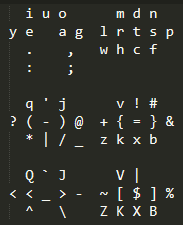
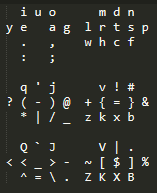
1st version of (lo level) kbd definition file small changes to PLLT1xe

diff --git a/pqLayouts/main.cpp b/pqLayouts/main.cpp
@@ -1,4 +1,4 @@
-// Copyright 2020 Philippe Quesnel  
+// Copyright 2021 Philippe Quesnel  
 //
 // This file is part of pqLayouts.
 //
@@ -197,13 +197,15 @@ namespace
 
         SetPLLT1xeShifts();
 
-        // Return on x
+        // Return on v
         addMapping(charToVk['v'],  false, VK_RETURN, false);
         addMapping(charToVk['v'],  true, VK_RETURN, true);
 
         // add other special keys on main
-        addMapping(charToVk['q'],  false, VK_ESCAPE, false);
-        addMapping(charToVk['q'],  true, VK_ESCAPE, true);
+        addMapping(VK_TAB,  false, VK_ESCAPE, false);
+        addMapping(VK_TAB,  true, VK_ESCAPE, true);
+        addMapping(charToVk['q'],  false, VK_TAB, false);
+        addMapping(charToVk['q'],  true, VK_TAB, true);
         addMapping(charToVk['['],  false, VK_BACK, false);
         addMapping(charToVk['['],  true, VK_DELETE, false);
 
@@ -315,6 +317,115 @@ namespace
          Maybe support for layout definitions in text files ! ;-)
         */
     }
+
+    bool parsek2k(int lineNo, std::string& fromKey, std::string& toKey )
+    {
+        // from key
+        const char* from = fromKey.c_str();
+
+        bool shiftLayer = false;
+        if (*from == '+')
+        {
+            shiftLayer = true;
+            from++;
+        }
+        //pq-todo support key names Esc, Tab etc
+        WORD vkFrom = 0;
+        if (strlen(from) > 1)
+        {
+            std::cerr << "keynames not supported yet, line " << lineNo << std::endl;
+            return false;
+        }
+        else
+        {
+            vkFrom = VkKeyScanA(*from);
+            if (vkFrom == 0xFFFF)
+            {
+                std::cerr << "non valid fromKey, line " << lineNo << std::endl;
+                return false;
+            }
+        }
+
+        // to key
+        const char* to = toKey.c_str();
+
+        bool toKeyNeedsShift = false;
+        if (*to == '+')
+        {
+            toKeyNeedsShift = true;
+            to++;
+        }
+        //pq-todo support key names Esc, Tab etc
+        WORD vkTo = 0;
+        if (strlen(to) > 1)
+        {
+            std::cerr << "keynames not supported yet, line " << lineNo << std::endl;
+            return false;
+        }
+        else
+        {
+            vkTo = VkKeyScanA(*to);
+            if (HasShiftBit(vkTo))
+                toKeyNeedsShift = true;
+
+            if (vkTo == 0xFFFF)
+            {
+                std::cerr << "non valid toKey, line " << lineNo << std::endl;
+                return false;
+            }
+        }
+
+        // add mapping
+        addMapping(vkFrom & 0xFF, shiftLayer, vkTo & 0xFF, toKeyNeedsShift);
+
+        return true;
+    }
+
+    bool readkeyboardfile(const char* filename)
+    {
+        int lineNo = 0;
+        std::string line;
+        std::ifstream kbdfile(filename);
+
+        while (!kbdfile.eof())
+        {
+            std::istringstream string_tokenizer;
+
+            std::getline(kbdfile, line);
+            lineNo++;
+
+            string_tokenizer.str(line);
+
+            // read the k2k command (or skip line)
+            std::string cmd;
+            string_tokenizer >> cmd;
+            if (string_tokenizer.eof() || cmd != "k2k") {
+              continue;
+            }
+
+            // read from key
+            if (string_tokenizer.eof()) {
+              std::cerr << "missing 1st param 'fromkey', line " << lineNo << std::endl;
+              return false;
+            }
+            std::string fromKey;
+            string_tokenizer >> fromKey;
+
+
+            // read 'to' key
+            if (string_tokenizer.eof()) {
+              std::cerr << "missing 2nd param 'tokey', line " << lineNo << std::endl;
+              return false;
+            }
+            std::string toKey;
+            string_tokenizer >> toKey;
+
+            if (!parsek2k(lineNo, fromKey, toKey))
+                return false;
+        }
+
+        return true;
+    }
 }
 
 
@@ -370,10 +481,14 @@ int __stdcall WinMain(HINSTANCE hInstance, HINSTANCE hPrevInstance, LPSTR comman
     HWND hDlg = CreateDialog(hInstance, MAKEINTRESOURCE(IDD_DIALOG1), 0, DialogProc);
     ShowWindow(hDlg, nCmdShow);
 
-    //## dbg
     InitCharToVk();
+
+    //## dbg
     //testMappings();
-    createPLLTx1dMapping();
+    if (strlen(commandLine) == 0)
+        createPLLTx1dMapping();
+    else
+        readkeyboardfile(commandLine);
 
     HookKbdLL(hDlg);
     //refreshIconState(hDlg);
@@ -402,6 +517,6 @@ int __stdcall WinMain(HINSTANCE hInstance, HINSTANCE hPrevInstance, LPSTR comman
 // call WinMain
 int main(int argc, char* argv[])
 {
-    WinMain(GetModuleHandle(0), 0, NULL, SW_SHOW);
+    WinMain(GetModuleHandle(0), 0, (argc == 2) ? argv[1] : LPSTR(""), SW_SHOW);
     return 0;
 }

diff --git a/pqLayouts/stdafx.h b/pqLayouts/stdafx.h
@@ -3,5 +3,8 @@
 
 #include <windows.h>
 
+#include <iostream>
+#include <fstream>
 #include <sstream>
 #include <map>
+#include <list>
